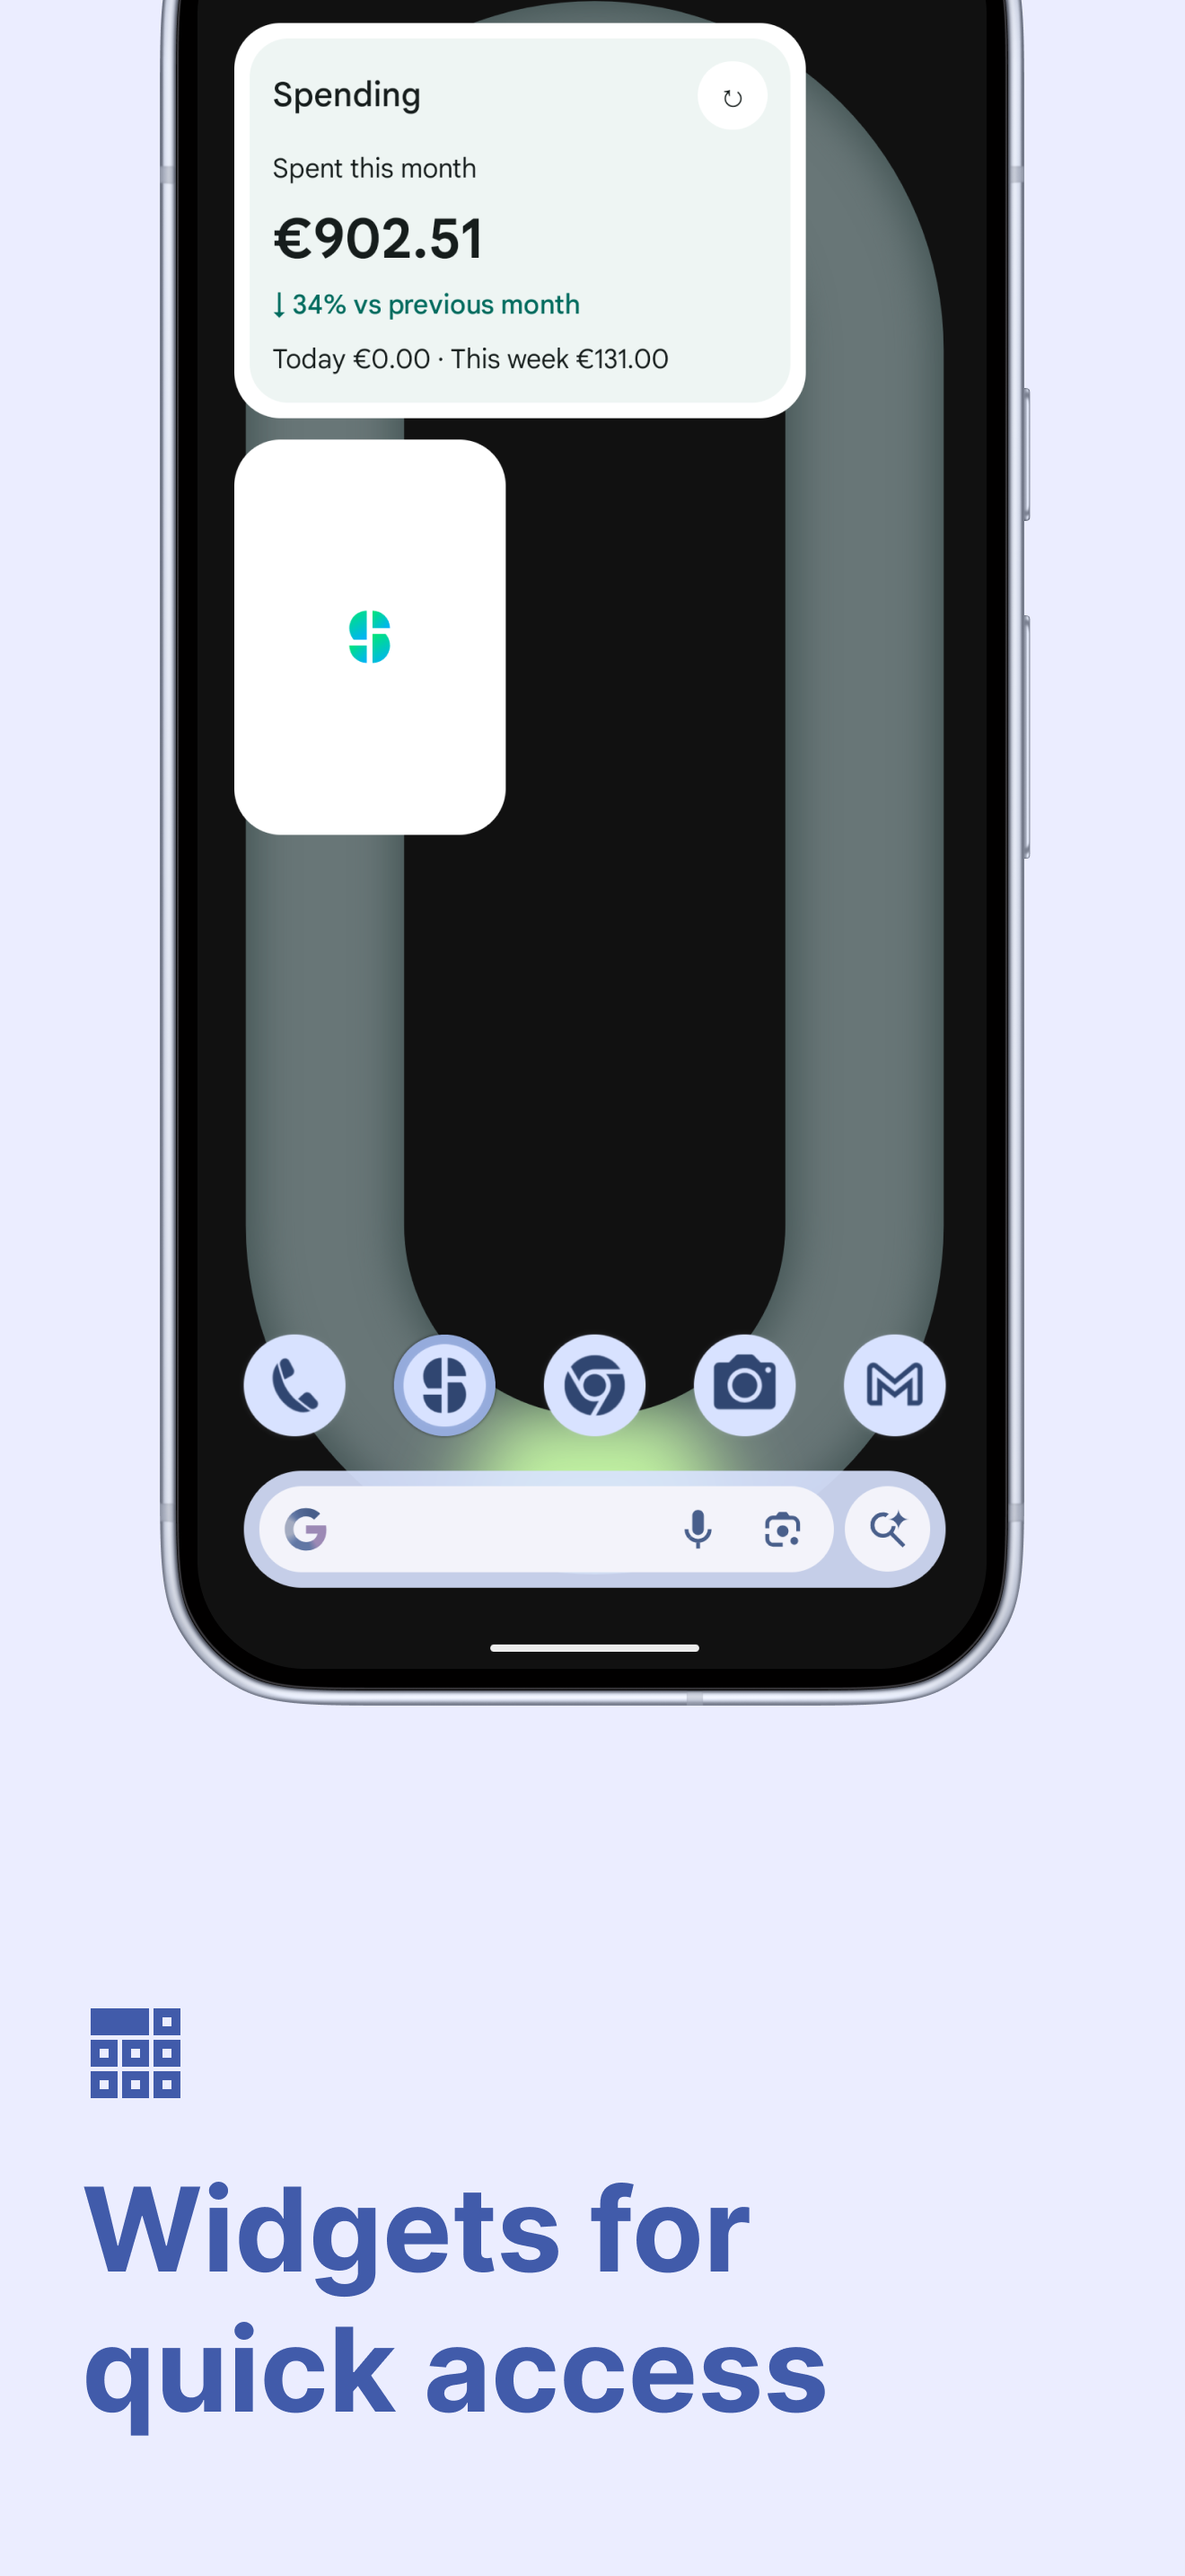
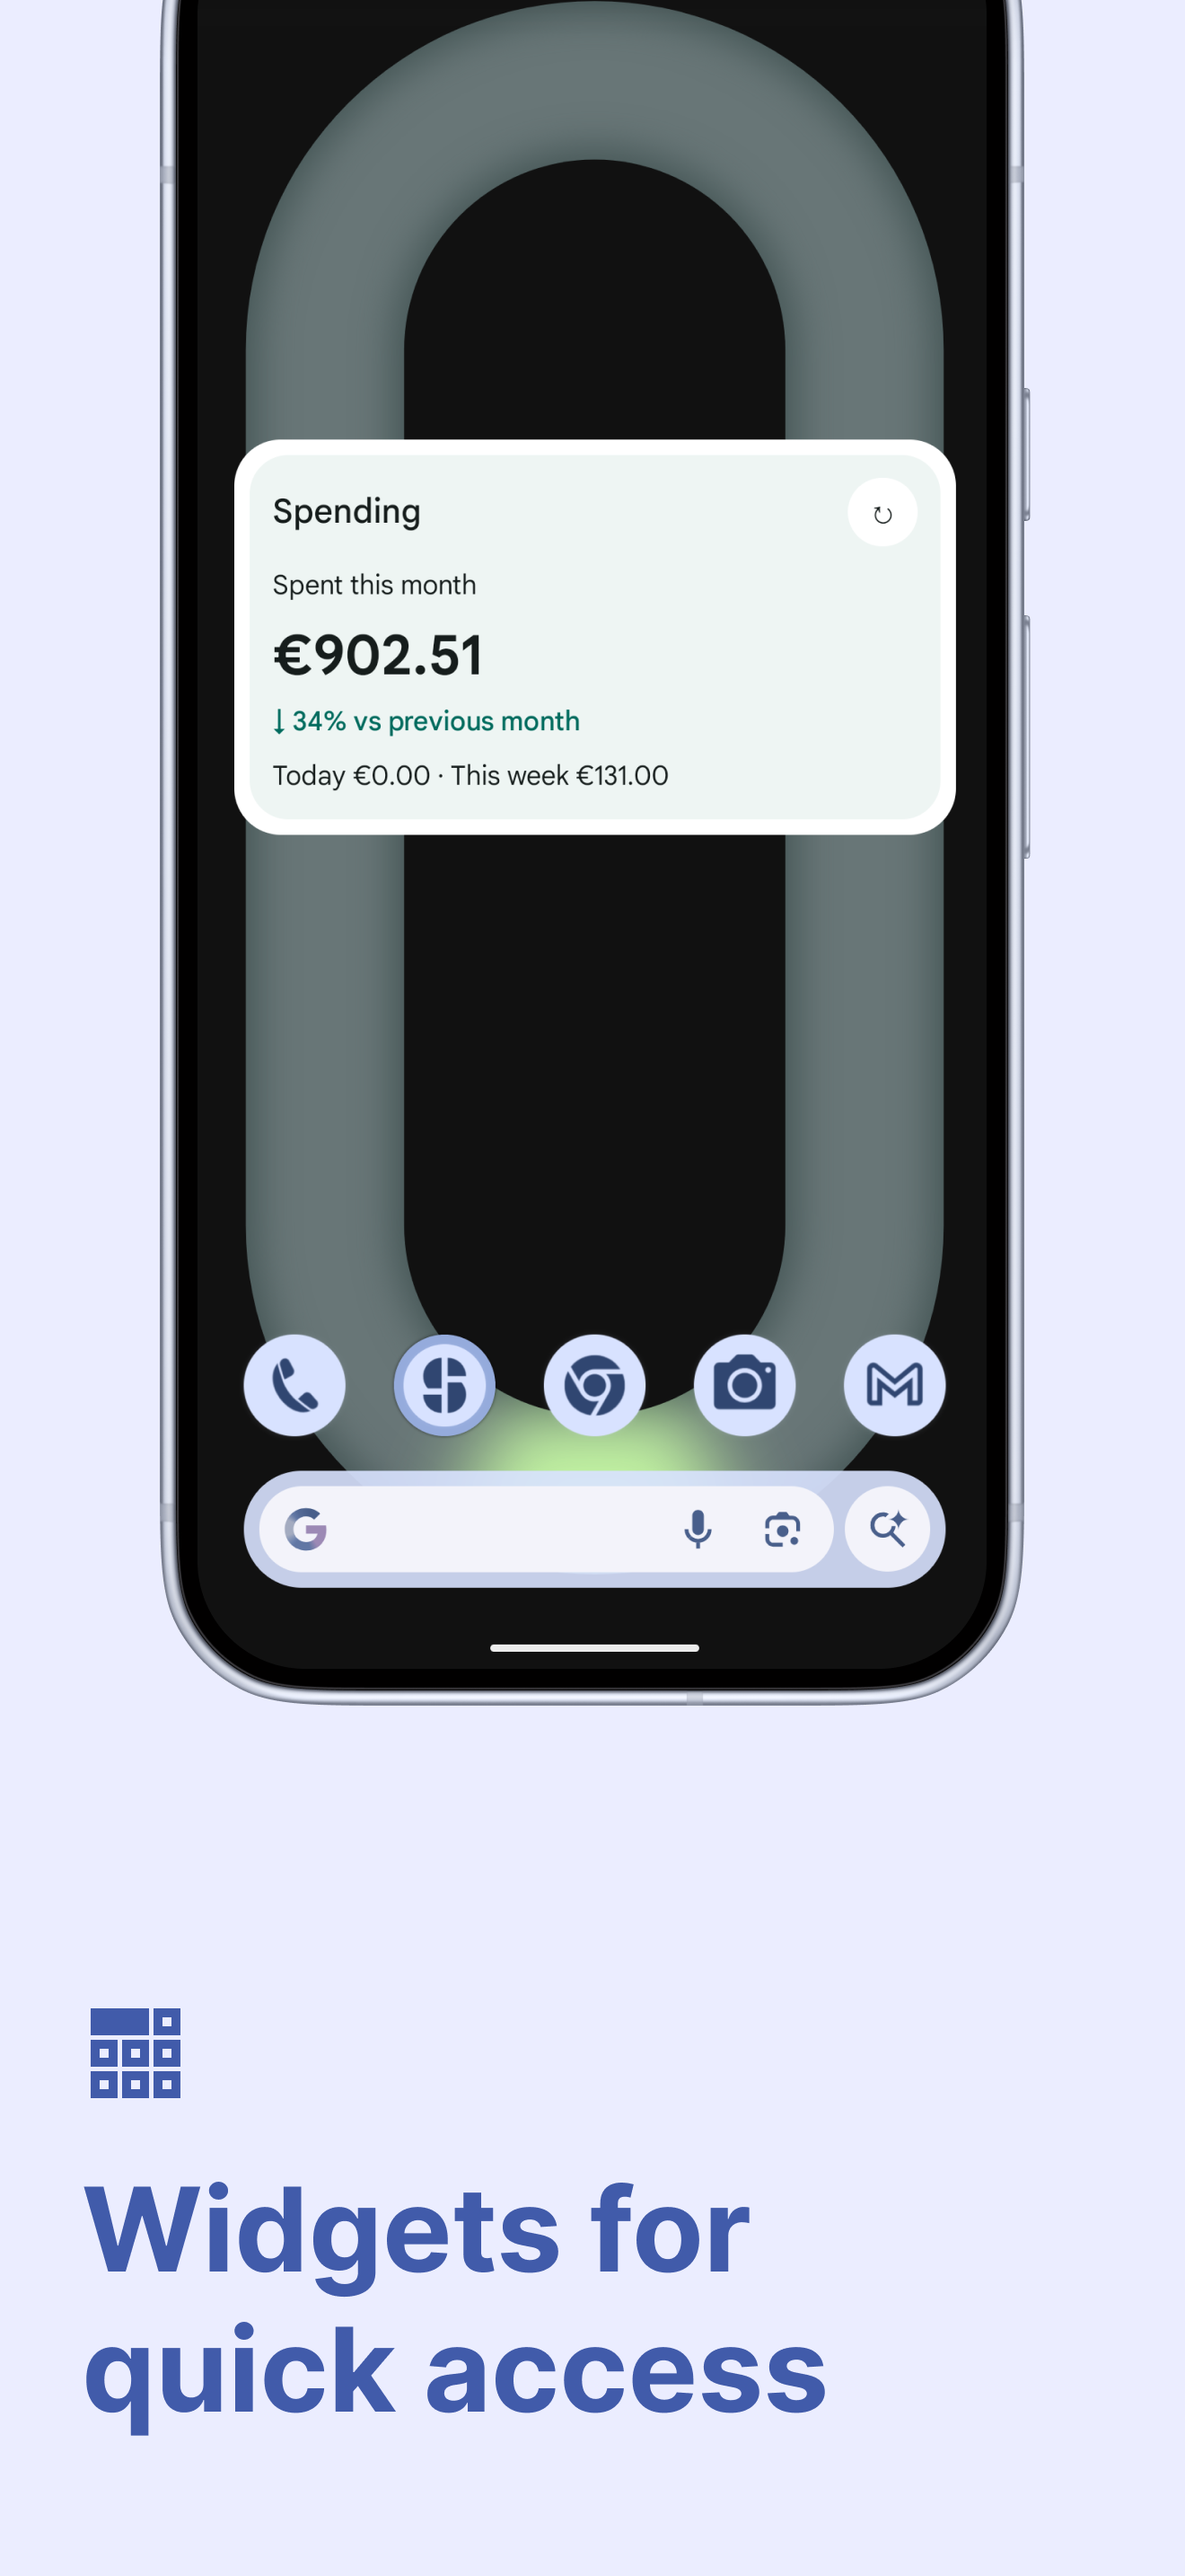
Add open-app action and clickable scaffold
Introduce openAppAction(context) to launch MainActivity and add an optional contentAction parameter to SummWidgetScaffold. When contentAction is provided, the scaffold applies a clickable modifier so tapping the widget content triggers the action. Update SpendingSummaryWidget to use openAppAction as the contentAction. Also replace the screenshot asset (docs/screenshots/6.png). This enables tapping the widget body to open the main app.

Changed region(s): [[0.1864, 0.0, 0.8076, 0.3414]]

diff --git a/app/src/main/java/com/davideagostini/summ/widget/components/WidgetComponents.kt b/app/src/main/java/com/davideagostini/summ/widget/components/WidgetComponents.kt
@@ -25,6 +25,7 @@ import androidx.glance.layout.width
 import androidx.glance.text.FontWeight
 import androidx.glance.text.Text
 import androidx.glance.text.TextStyle
+import com.davideagostini.summ.MainActivity
 import com.davideagostini.summ.R
 import com.davideagostini.summ.ui.entry.QuickEntryActivity
 import com.davideagostini.summ.ui.theme.onSurfaceDark
@@ -46,10 +47,14 @@ private val widgetOnSurface = ColorProvider(onSurfaceLight, onSurfaceDark)
 fun quickEntryAction(context: Context): Action =
     actionStartActivity(Intent(context, QuickEntryActivity::class.java))
 
+fun openAppAction(context: Context): Action =
+    actionStartActivity(Intent(context, MainActivity::class.java))
+
 @androidx.compose.runtime.Composable
 fun SummWidgetScaffold(
     title: String,
     body: String? = null,
+    contentAction: Action? = null,
     trailingAction: Action? = null,
     content: @androidx.compose.runtime.Composable () -> Unit,
 ) {
@@ -68,6 +73,13 @@ fun SummWidgetScaffold(
                 .fillMaxSize()
                 .cornerRadius(20.dp)
                 .background(widgetSurface)
+                .then(
+                    if (contentAction != null) {
+                        GlanceModifier.clickable(contentAction)
+                    } else {
+                        GlanceModifier
+                    },
+                )
                 .padding(12.dp),
         ) {
             Row(

diff --git a/app/src/main/java/com/davideagostini/summ/widget/SpendingSummaryWidget.kt b/app/src/main/java/com/davideagostini/summ/widget/SpendingSummaryWidget.kt
@@ -28,6 +28,7 @@ import com.davideagostini.summ.ui.theme.primaryDark
 import com.davideagostini.summ.ui.theme.primaryLight
 import com.davideagostini.summ.widget.components.SummWidgetScaffold
 import com.davideagostini.summ.widget.components.WidgetInfoState
+import com.davideagostini.summ.widget.components.openAppAction
 import com.davideagostini.summ.widget.components.quickEntryAction
 import com.davideagostini.summ.widget.data.SpendingSummaryWidgetDataSource
 import com.davideagostini.summ.widget.model.SpendingDeltaTone
@@ -55,6 +56,7 @@ class SpendingSummaryWidget : GlanceAppWidget() {
         provideContent {
             SummWidgetScaffold(
                 title = context.getString(R.string.widget_spending_title),
+                contentAction = openAppAction(context),
                 trailingAction = actionRunCallback<RefreshSpendingWidgetAction>(),
             ) {
                 when (state) {
